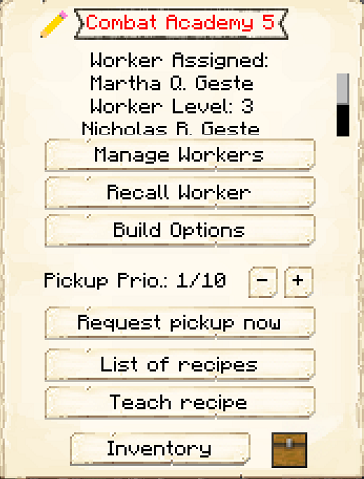
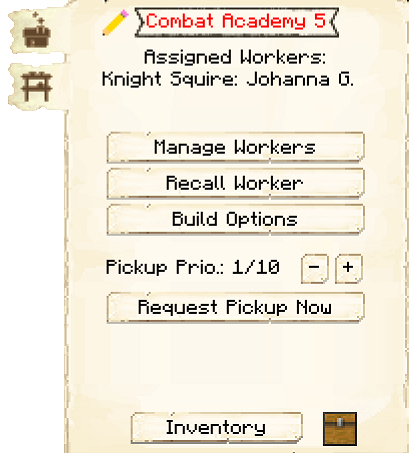
Combat Academy Update

diff --git a/source/buildings/combatacademy.md b/source/buildings/combatacademy.md
@@ -40,7 +40,7 @@ The Knights in Training are not actual Guards even though they will be dressed a
 
 ## Combat Academy GUI
 
-When accessing the Combat Academy's hut block by right-clicking on it, you will see a GUI with different options:
+When accessing the Combat Academy's hut block by right-clicking on it, you will see a GUI with different options.   You start on the main tab:
 
 <br>
 <div class="row">
@@ -56,15 +56,14 @@ When accessing the Combat Academy's hut block by right-clicking on it, you will 
     </ul>
   </div>
 </div>  
+
   <br>
-
-This is page two of the Combat Academy GUI.
-
 <div class="row">
     <div class="col-sm-12 col-md">
-        <img src="../../assets/images/gui/minstockgui.png" class="img-fluid mx-auto" alt="Combat Academy GUI 2">
+        <img src="../../assets/images/gui/combatacademygui2.png" class="img-fluid mx-auto" alt="Combat Academy GUI 2">
     </div>
     <div class="col-sm-12 col-md">
+    <p>The second tab of the GUI is <strong>Minimum Stock</strong>.    It has one button:</p>
         <ul>
         <li><strong> Minimum Stock: </strong> Use this button to tell the Combat Academy to keep a minimum stock on hand. Set items will be displayed above the button.</li>
         </ul>
